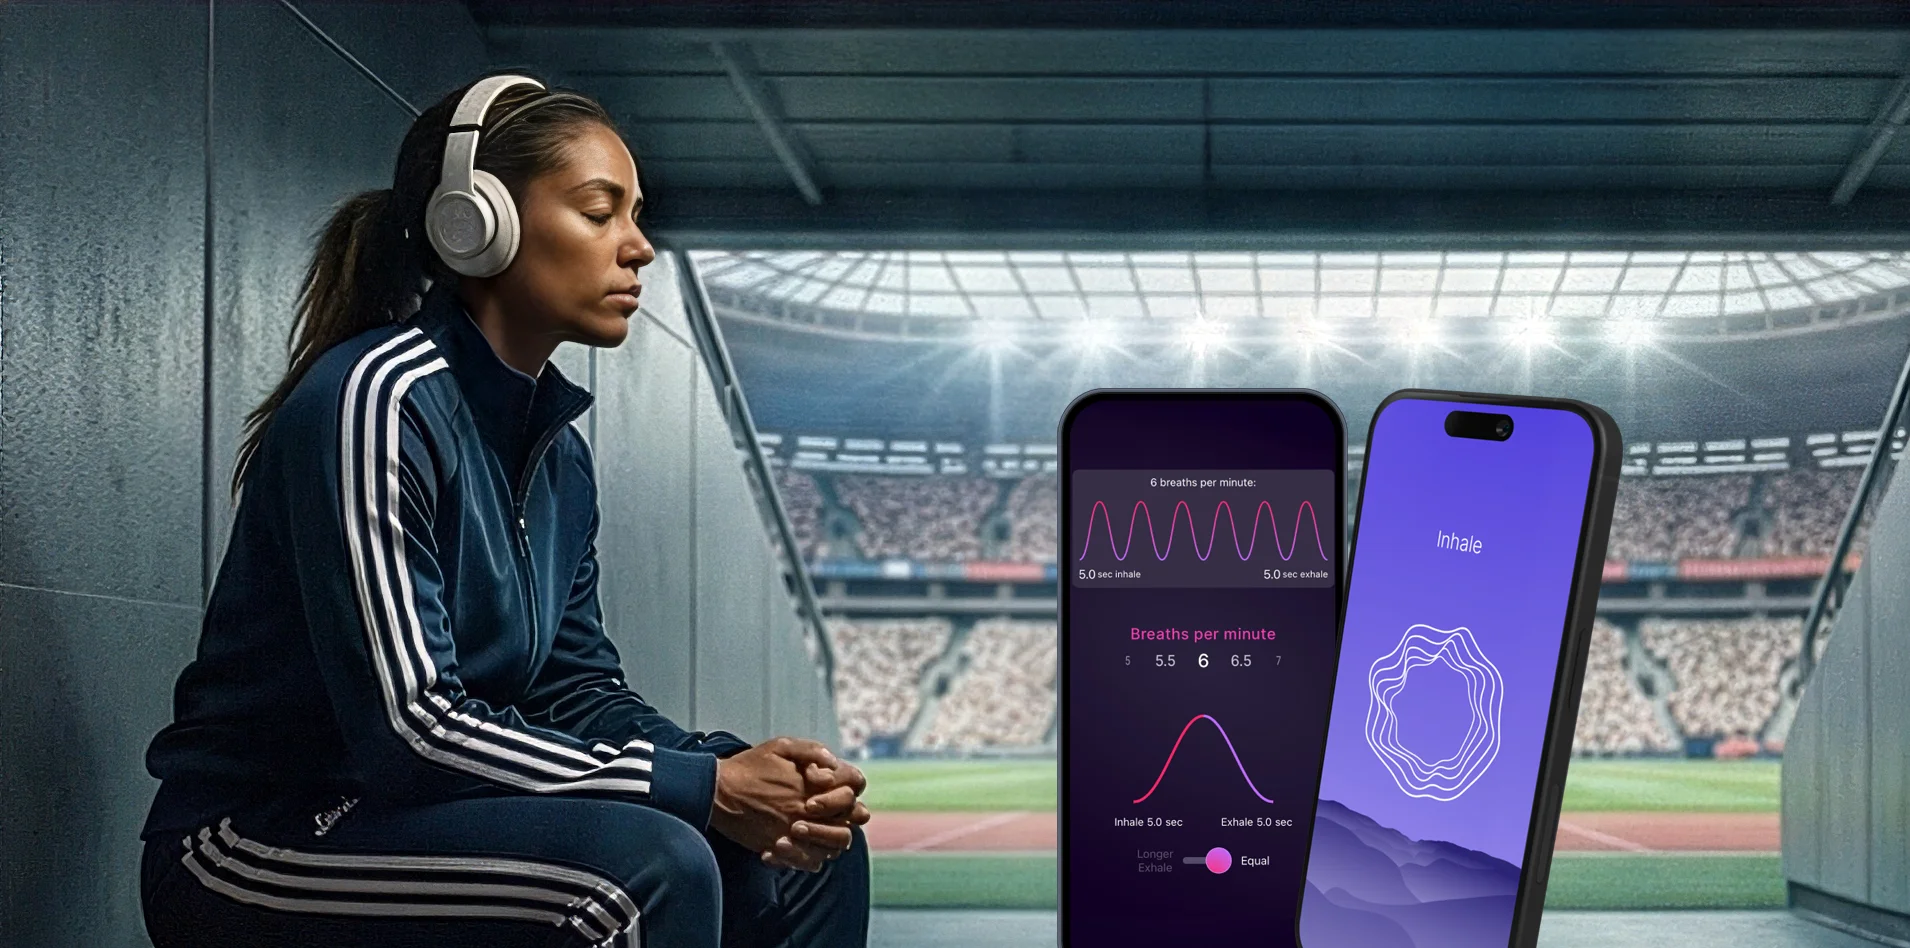
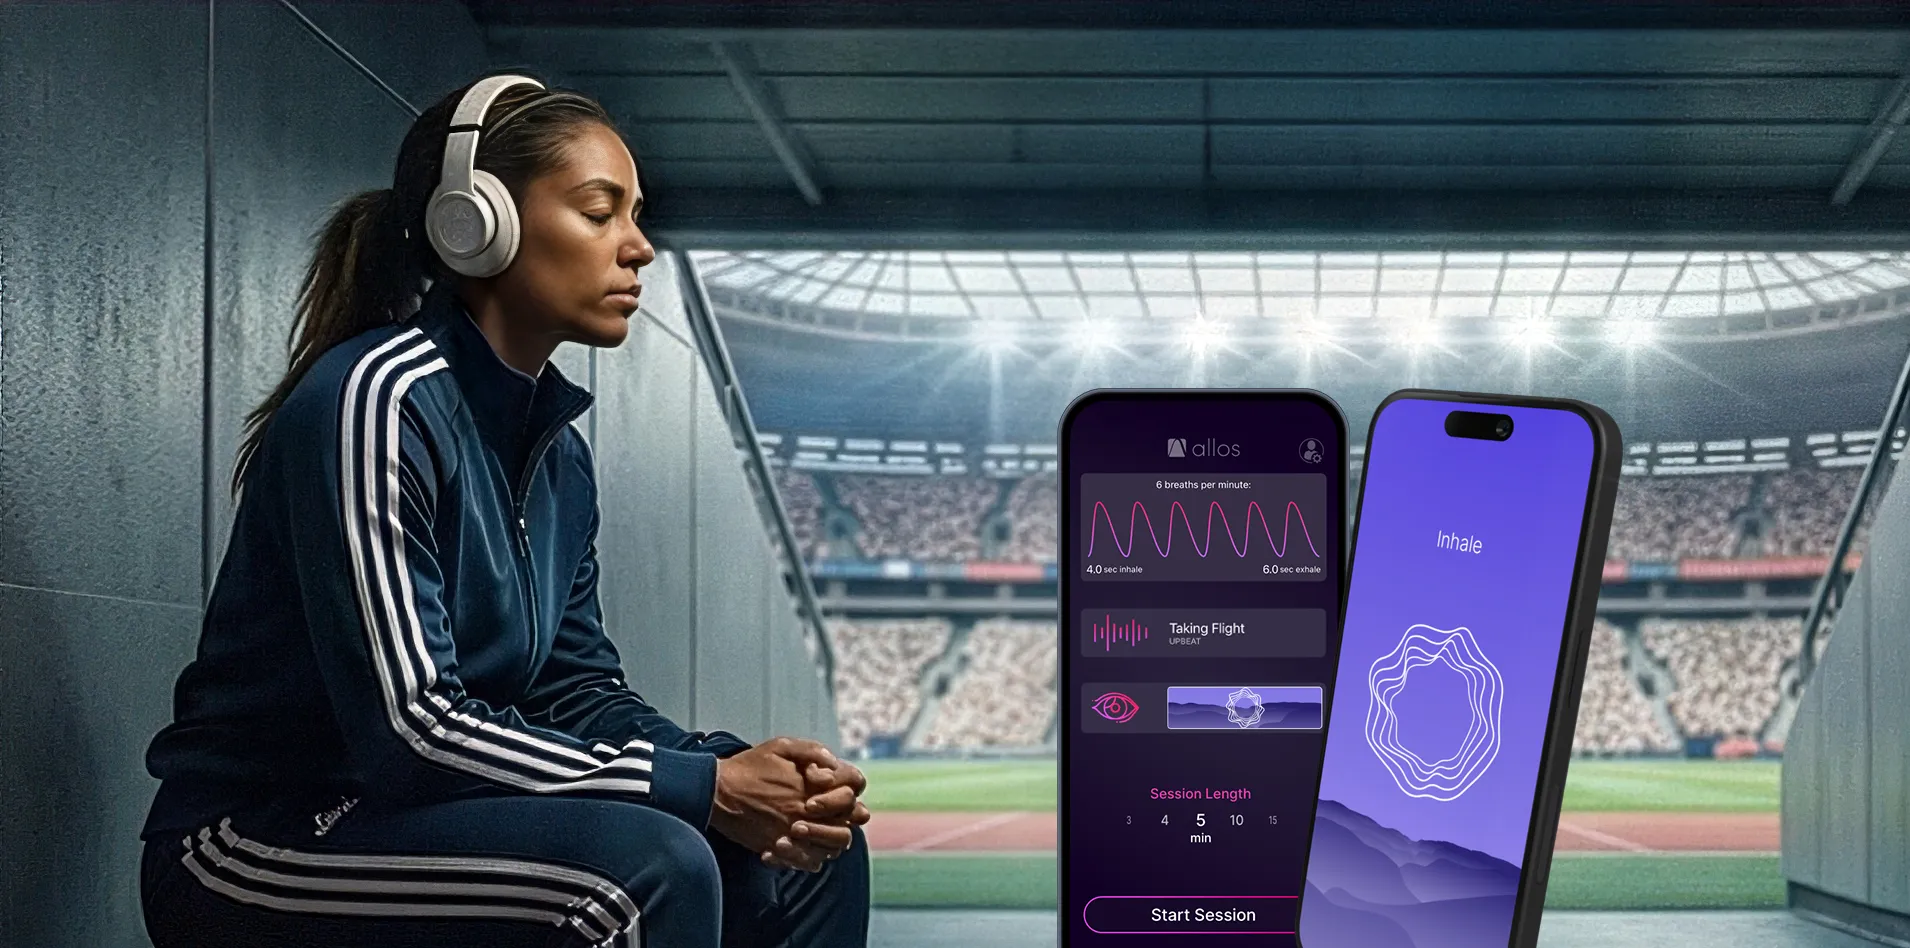
Update to peak.html images

Changed region(s): [[0.556, 0.4283, 0.7105, 0.7954], [0.5869, 0.8259, 0.6796, 1.0]]

diff --git a/src/peak.html b/src/peak.html
@@ -501,7 +501,7 @@ customScripts: |
         <p>The app is designed to support the 15-minute breathing sessions prescribed in the <strong>Peak Under Pressure</strong> training program.</p>
       </div>
       <div class="section-image feature-image">
-        <img src="/assets/images/ui-home-screen.webp" alt="Allos app home screen">
+        <img src="/assets/images/ui-breath-settings-screen-cropped.webp" alt="Allos app home screen">
       </div>
     </div>
   </section>
